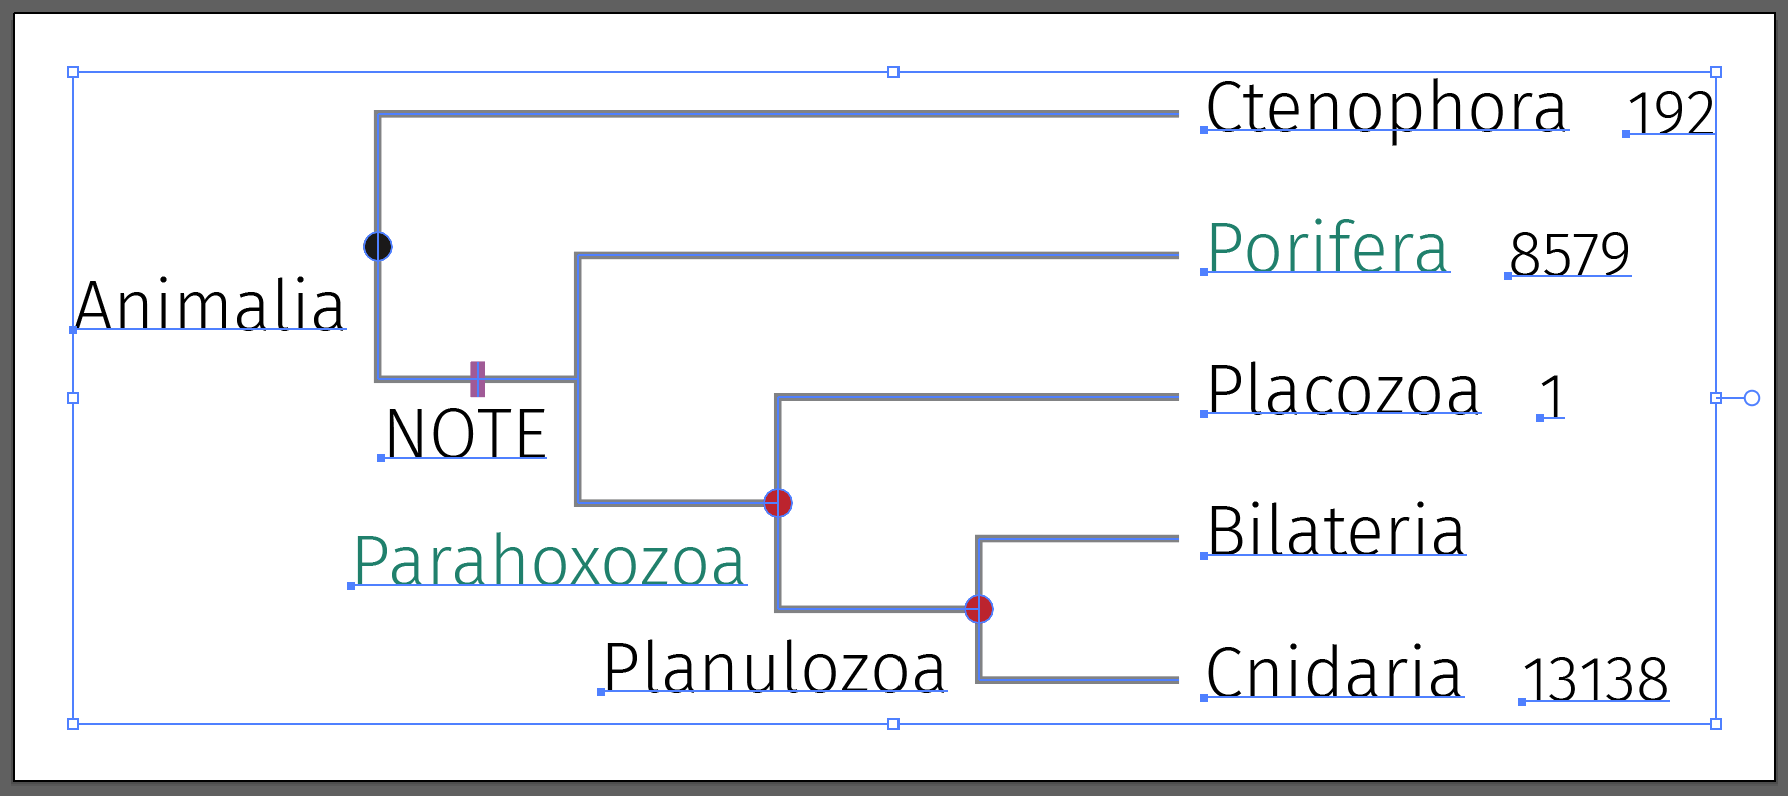
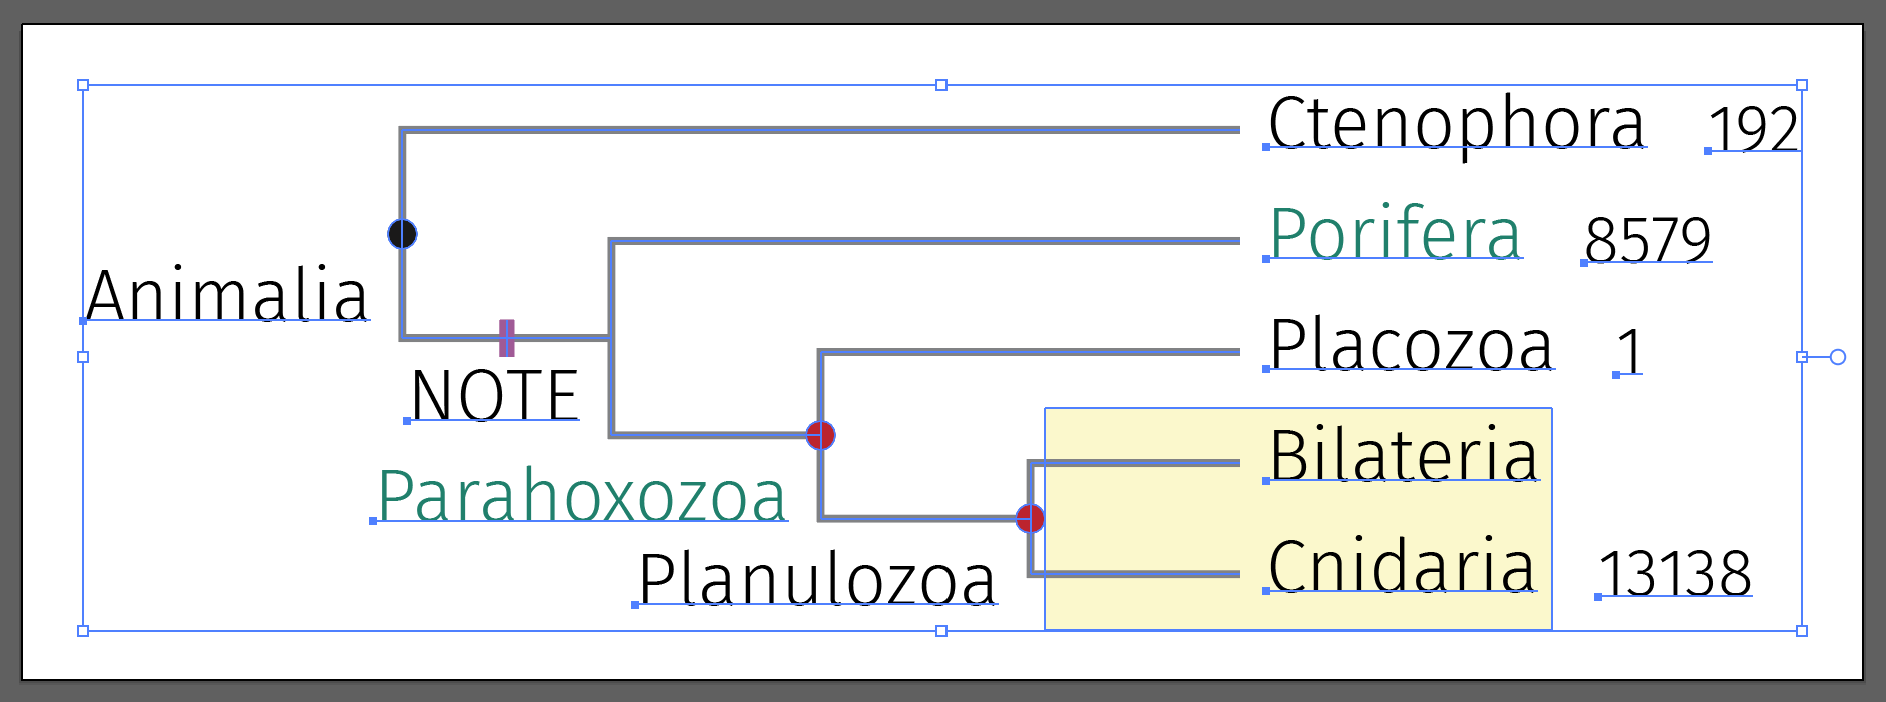
Update template

Changed region(s): [[0.0, 0.0, 1.0, 0.9872], [0.4306, 0.4487, 0.8305, 0.5385], [0.8613, 0.4786, 0.8921, 0.5385]]

diff --git a/doc/template.tex b/doc/template.tex
@@ -78,7 +78,7 @@
         [\color{green}{Porifera}, comment=8579]
         [, label=\color{green}{Parahoxozoa}, dot=red
             [Placozoa, comment=1]
-            [, label=Planulozoa, dot=red
+            [, label=Planulozoa, dot=red, rec={LemonChiffon},
                 [Bilateria]
                 [Cnidaria, comment=13138]
             ]

diff --git a/README.md b/README.md
@@ -121,7 +121,7 @@ cargo run --bin nwr assembly tests/assembly/Trichoderma.assembly.tsv
 
 ```
 
-### Newick files
+### Newick files and LaTeX
 
 For more detailed usages, check [this](tree/README.md).
 
